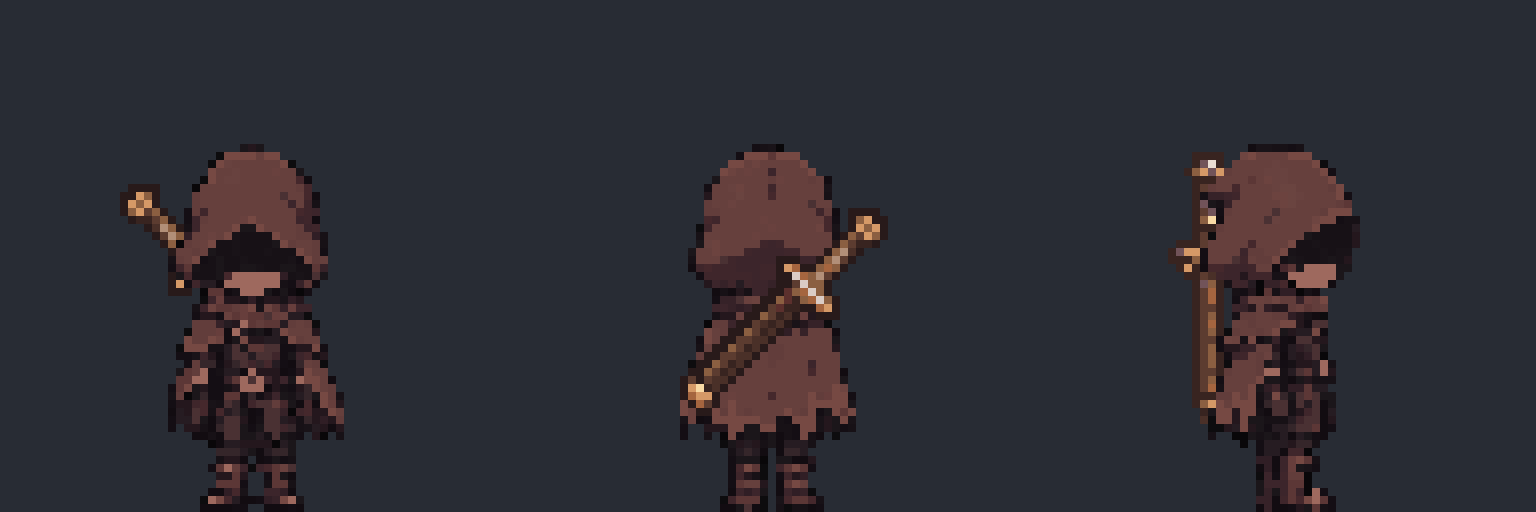
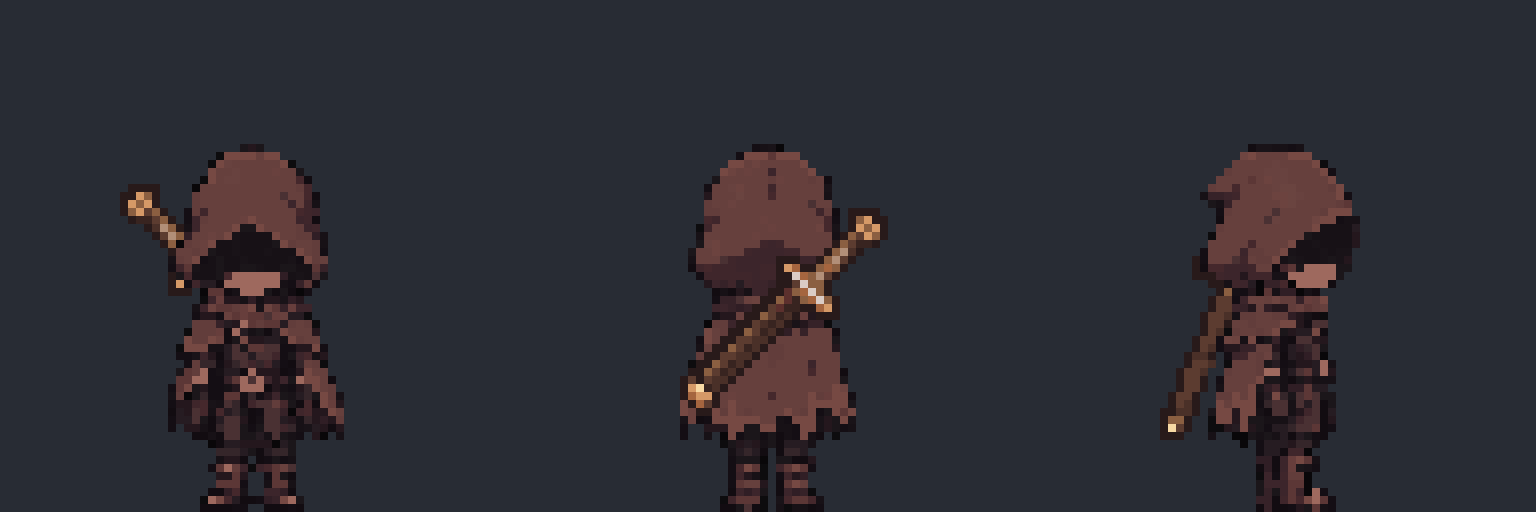
fix: 측면 등 칼을 비스듬히 멘 모양으로
세로로 세운 칼이 머리 뒤에 붙은 것처럼 보인다는 사용자 지적. 손잡이는 어깨 뒤, 칼집 끝은 등 뒤 아래로
기울인 PixelLab 그림으로 바꾸고 칼집 색을 정면 칼에 맞춤.

diff --git a/assets/concepts/weapons/build_back_sword.py b/assets/concepts/weapons/build_back_sword.py
@@ -93,8 +93,9 @@ def place(item: Image.Image, guard: tuple[int, int], angle: float) -> Image.Imag
 PIXELLAB_ART = {
     "front": ("diag_C.png", False, (16, 16), (8, 16)),
     "back": ("diag_C.png", True, (16, 16), (21, 19)),
-    # 측면은 사선 그림(diag_C)을 세운 것을 밑그림으로 다시 그린 side_C (같은 칼로 보이게, 2026-11-18 사용자 지적)
-    "side": ("side_C.png", False, (12, 15), (7, 15)),
+    # 측면은 비스듬히 멘 모양 side_E: 손잡이는 어깨 뒤(후드에 가려짐), 칼집 끝은 등 뒤 아래로 (2026-11-18 사용자 지적:
+    # 세로로 세우면 칼이 머리 뒤에 붙은 것처럼 보임). 얇게 줄인 side_C 를 기울인 것을 밑그림으로 PixelLab 이 다시 그림.
+    "side": ("side_E.png", False, (17, 20), (10, 19)),
 }
 
 
@@ -115,9 +116,36 @@ def thin(art: Image.Image, name: str) -> Image.Image:
     return out
 
 
+# 색 맞춤: side_E 는 칼집 가죽이 정면·후면(diag_C)보다 밝아, 외곽선과 가드 아래 칼집 색을 diag_C 의 색으로 바꾼다 (모양 그대로).
+RECOLOR = {"side_E.png": {
+    "all": {(56, 36, 32): (40, 26, 26)},
+    "below": (21, {(139, 95, 65): (92, 60, 48), (92, 60, 48): (74, 48, 40), (165, 101, 63): (139, 95, 65)}),
+}}
+
+
+def recolor(art: Image.Image, name: str) -> Image.Image:
+    if name not in RECOLOR:
+        return art
+    rule = RECOLOR[name]
+    row, below = rule["below"]
+    out = art.copy()
+    px = out.load()
+    for y in range(out.height):
+        for x in range(out.width):
+            c = px[x, y]
+            if not c[3]:
+                continue
+            rgb = c[:3]
+            if y > row and rgb in below:
+                rgb = below[rgb]
+            rgb = rule["all"].get(rgb, rgb)
+            px[x, y] = rgb + (255,)
+    return out
+
+
 def place_art(view: str) -> Image.Image:
     name, flip, (ax, ay), (tx, ty) = PIXELLAB_ART[view]
-    art = thin(Image.open(HERE / "pixellab_sheath" / name).convert("RGBA"), name)
+    art = recolor(thin(Image.open(HERE / "pixellab_sheath" / name).convert("RGBA"), name), name)
     if flip:
         art = art.transpose(Image.FLIP_LEFT_RIGHT)
         ax = art.width - 1 - ax

diff --git a/docs/DECISIONS.md b/docs/DECISIONS.md
@@ -770,7 +770,7 @@
     사선(정면, 후면은 좌우 반전)은 계산한 칼집 모양을 밑그림으로 줘 칼날 두께에 맞춘 것, 측면은 세로 그림.
     `build_back_sword.py` 의 `PIXELLAB_ART` 가 그림의 가드 자리를 몸의 가드 자리에 맞춰 놓는다 (돌리지 않음).
     측면은 처음 세로 그림이 다른 칼처럼 보여(길이·비율·질감, 사용자 지적) 사선 그림을 세운 것을 밑그림으로 다시 그린 side_C 로 바꾸고
-    등선을 따라 보이게 놓았다 (칼집은 가운데 가죽 한 줄을 빼 폭 5 → 4픽셀, 사용자 요청 THIN_COLUMNS). 측면 회피 중에는 몸을 크게 숙여 세운 칼이 몸 아래로 삐져나와 그리지 않는다 (`PLAYER_BACK_SWORD_HIDDEN`).
+    등선을 따라 보이게 놓았다 (칼집은 가운데 가죽 한 줄을 빼 폭 5 → 4픽셀, 사용자 요청 THIN_COLUMNS). 그 뒤 세로로 세운 칼이 머리 뒤에 붙은 것처럼 보인다는 사용자 지적으로, 측면은 비스듬히(손잡이는 어깨 뒤, 칼집 끝은 등 뒤 아래) 그린 side_E 로 바꾸고 칼집 색을 정면 칼에 맞춤(RECOLOR). 측면 회피 중에는 몸을 크게 숙여 세운 칼이 몸 아래로 삐져나와 그리지 않는다 (`PLAYER_BACK_SWORD_HIDDEN`).
   - 몸을 따라가게: 상태(idle·walk·jump·dodge)·방향·장마다 그 장의 머리 꼭대기가 서 있기 첫 장보다 움직인 양을
     `PLAYER_BACK_SWORD_OFFSETS` 로 두고(`build_back_sword.py --offsets`), 칼을 그만큼 옮긴다. 점프는 몸과 같이 뜬다.
     서 있는 그림을 쓰는 상태(피격 등)는 서 있기 첫 장. 회피 잔상에는 그리지 않는다.
